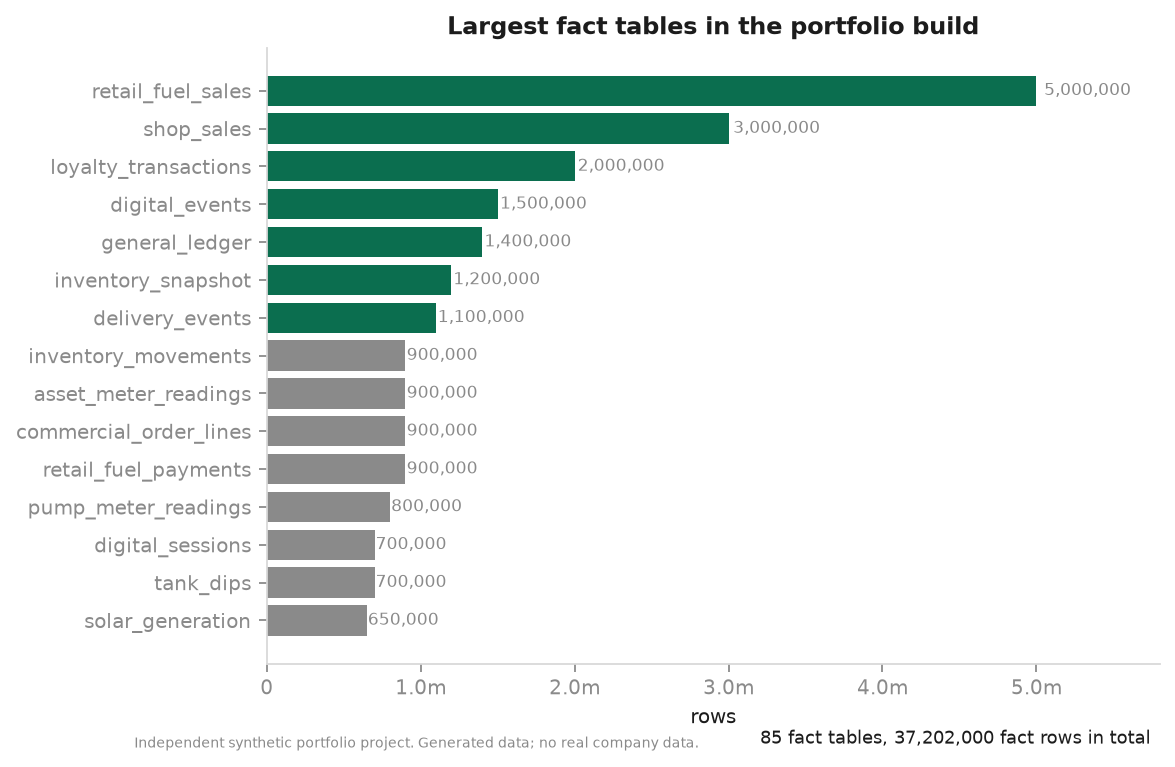
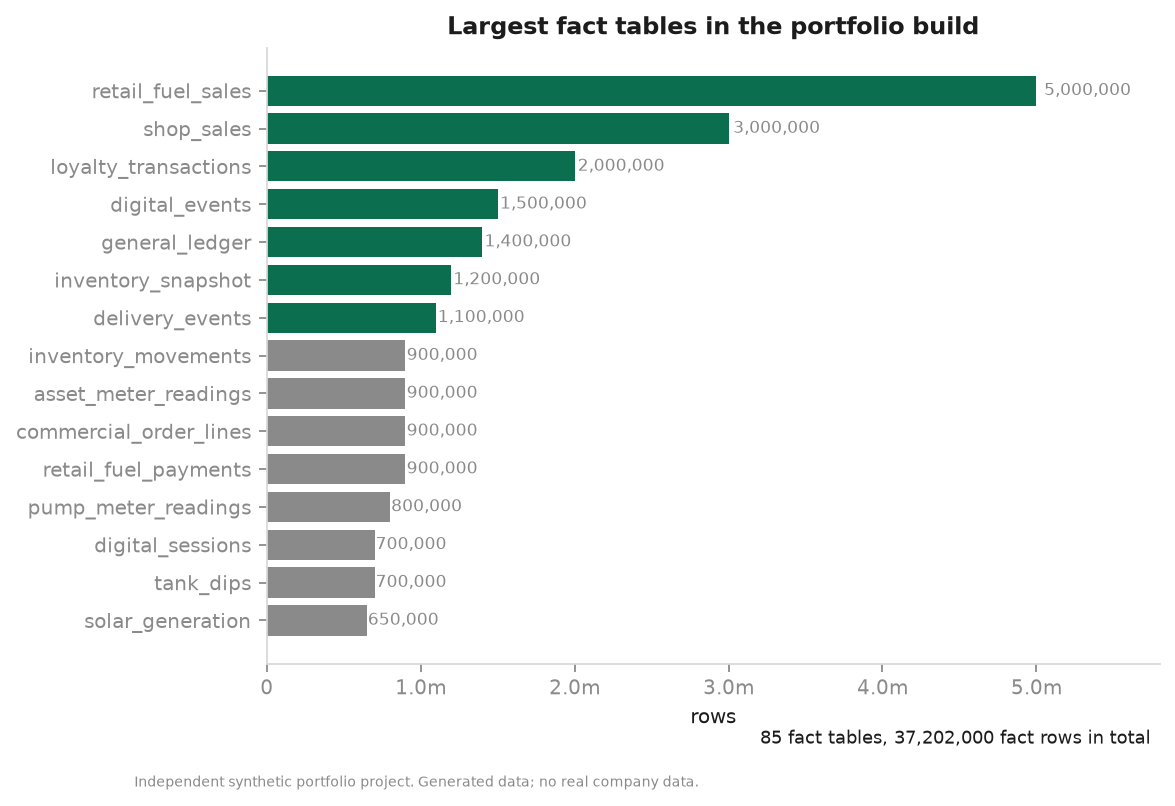
Name the unresolved-province bucket, and stop captions colliding with tick labels
The province chart was rendering rows whose site never resolved to a province
as a bar labelled 'nan', sitting first and taller than Gauteng. On the partial
test warehouse that bucket holds 60% of margin, because the site dimension is
incomplete there. It is now named 'unresolved', moved to the end, coloured as
a warning and annotated with its share -- dropping it silently would hide the
most informative thing on the chart, and leaving it as 'nan' invited the
reader to treat it as a region.

Figure captions moved below the figure box. At y=0.005 they were drawn on top
of rotated category labels on every chart with long names.

Figure 9 re-queried live from the workspace: 5,000,000 rows through bronze,
silver and gold with no loss, plus the three aggregates.

diff --git a/scripts/build_evidence_pack.py b/scripts/build_evidence_pack.py
@@ -78,7 +78,12 @@ def warehouse_caption() -> str:
 
 
 def _finish(fig, name: str, caption: str = CAPTION):
-    fig.text(0.01, 0.005, caption, fontsize=6.5, color=GREY, ha="left")
+    # Placed below the figure box, not inside it. At y=0.005 the caption sat
+    # on top of rotated tick labels on any chart with long category names;
+    # a negative y puts it under everything, and `bbox_inches="tight"` grows
+    # the saved image to include it.
+    fig.text(0.01, -0.03, caption, fontsize=6.5, color=GREY, ha="left",
+             va="top")
     IMG.mkdir(parents=True, exist_ok=True)
     path = IMG / name
     fig.savefig(path, bbox_inches="tight", facecolor="white")
@@ -513,14 +518,40 @@ def fig_province_performance(con):
     """).df()
     if df.empty:
         return None
-    fig, ax = plt.subplots(figsize=(7.6, 4.2))
+
+    # Rows whose site never resolved to a province are a data-quality result,
+    # not a province. Charting them as a bar labelled "nan" alongside Gauteng
+    # invites the reader to treat unresolved volume as a region -- so the
+    # bucket is named, moved to the end, and coloured as a warning. Dropping
+    # it silently would be worse: on a partial build it can carry more margin
+    # than every real province combined, and that is worth seeing.
+    unresolved = df.province.isna()
+    df.loc[unresolved, "province"] = "unresolved"
+    df = pd.concat([df[~unresolved], df[unresolved]], ignore_index=True)
+    n_unresolved = int(unresolved.sum())
+
+    fig, ax = plt.subplots(figsize=(7.6, 4.4))
     x = np.arange(len(df))
-    ax.bar(x - 0.2, df.litres_m, 0.4, label="volume (m litres)", color=GREY)
-    ax.bar(x + 0.2, df.margin_m, 0.4, label="gross margin (R m)", color=ACCENT)
+    vol_colours = [WARN if p == "unresolved" else GREY for p in df.province]
+    mar_colours = [WARN if p == "unresolved" else ACCENT for p in df.province]
+    ax.bar(x - 0.2, df.litres_m, 0.4, label="volume (m litres)",
+           color=vol_colours)
+    ax.bar(x + 0.2, df.margin_m, 0.4, label="gross margin (R m)",
+           color=mar_colours, hatch=["//" if p == "unresolved" else ""
+                                     for p in df.province])
     ax.set_xticks(x)
     ax.set_xticklabels(df.province, rotation=30, ha="right", fontsize=8)
     ax.legend(frameon=False, fontsize=8)
     ax.set_title("Volume and margin by province")
+    if n_unresolved:
+        share = df.loc[df.province == "unresolved", "margin_m"].sum() \
+            / max(df.margin_m.sum(), 1e-9)
+        ax.text(0.5, -0.34,
+                f"{share:.0%} of margin sits on sites that did not resolve to "
+                "a province. On a partial build this is expected -- the site\n"
+                "dimension is incomplete -- and on a full build it would be a "
+                "referential defect worth failing the run over.",
+                transform=ax.transAxes, ha="center", fontsize=7, color=WARN)
     return _finish(fig, "08_province_performance.png", warehouse_caption())
 
 
